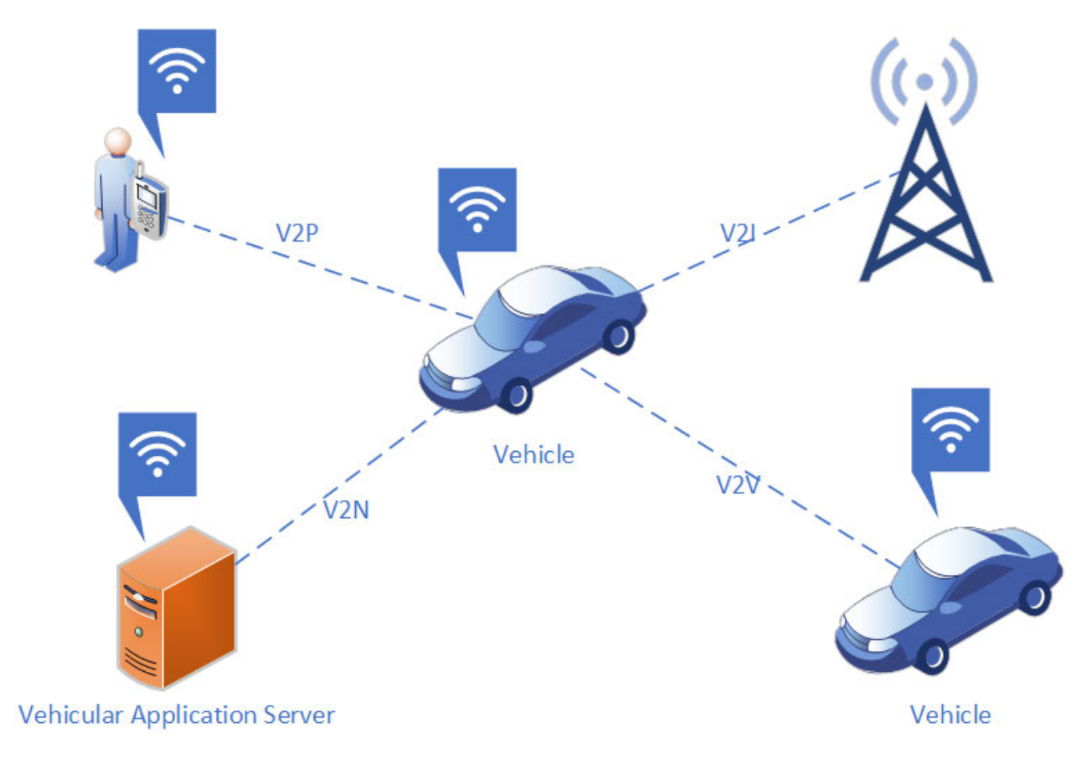
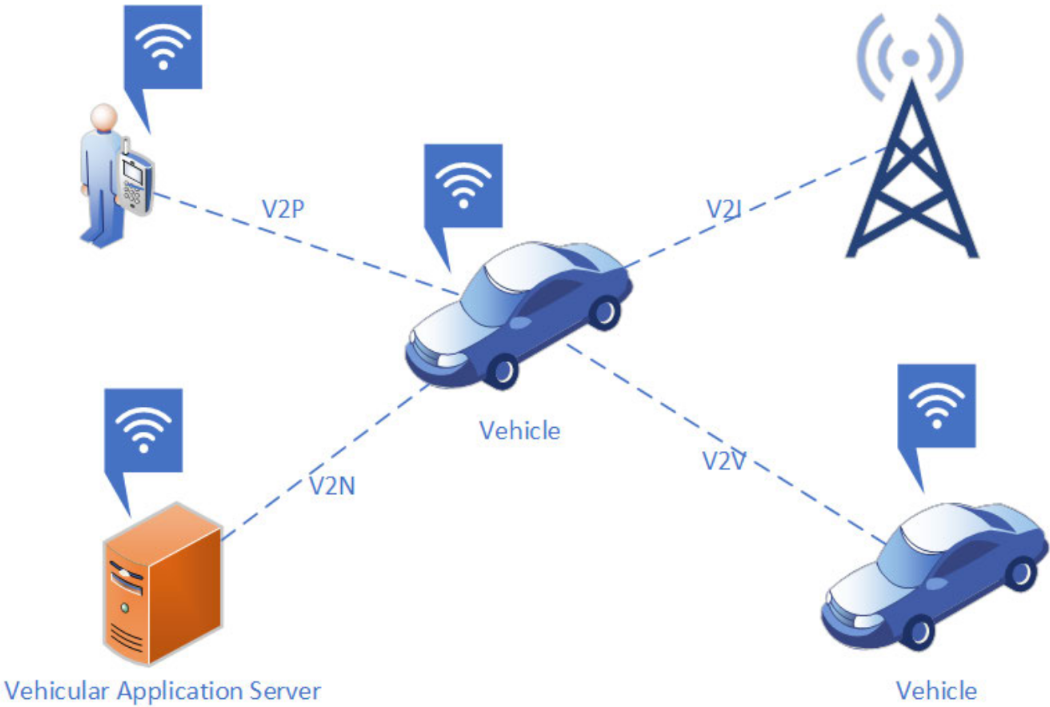
Add new figures and update text for consistency in terminology and clarity

diff --git a/sections/05_challenges_future.tex b/sections/05_challenges_future.tex
@@ -3,16 +3,16 @@
 \label{sec:challenges_future}
 
 The deployment of large-scale Internet of Vehicles (IoV) and cooperative automated driving faces several unresolved technical bottlenecks.
-This section details four core challenges: wireless channel congestion and spectrum coexistence under collective perception traffic, edge computing integration within Vehicle-Road-Cloud architectures, data trustworthiness through misbehavior detection, and the architectural roadmap toward 6G-V2X.
+This section details four core challenges: wireless channel congestion and spectrum coexistence under collective perception traffic, edge computing integration within Vehicle-Road-Cloud architectures, data trustworthiness through misbehaviour detection, and the architectural roadmap toward 6G-V2X.
 
 \subsection{Channel Congestion and Spectrum Coexistence}
 \label{subsec:congestion_coexistence}
 
 In dense traffic scenarios such as multi-lane urban intersections and highway traffic jams, hundreds of communicating nodes compete for the shared 5.9~GHz ITS spectrum~\cite{zhang2026cooperative}.
 In international intelligent transport roadmaps, vehicular communication deployment is structured into progressive phases, commonly classified as initial awareness services (often termed Day~1) and advanced cooperative sensing services (Day~2 and beyond).
-Initial Day~1 services rely on lightweight status beacons, such as Cooperative Awareness Messages (CAM) or Basic Safety Messages (BSM) of approximately 300~bytes.
+Initial Day~1 services rely on lightweight status beacons, such as CAM or BSM beacons of approximately 300~bytes.
 In these initial services, each vehicle only broadcasts its own dynamic state (its own GPS coordinates, velocity, and heading) or basic hazard notifications.
-In contrast, advanced Day~2 services introduce Collective Perception Messages (CPMs), where vehicles and roadside infrastructure share what their onboard sensors observe in the surrounding environment~\cite{etsi_cpm_2019}.
+In contrast, advanced Day~2 services introduce CPMs, where vehicles and roadside infrastructure share what their onboard sensors observe in the surrounding environment~\cite{etsi_cpm_2019}.
 Because a single CPM carries descriptions of multiple third-party obstacles, spatial coordinates, velocity vectors, and free-space polygons, message payloads expand from a few hundred bytes to several kilobytes.
 
 When hundreds of vehicles in a congested area broadcast these large perception messages at frequencies between 10~Hz and 20~Hz, the wireless channel experiences severe congestion.
@@ -20,7 +20,7 @@ In IEEE 802.11p/bd networks, CSMA/CA channel busy ratios quickly surpass saturat
 In C-V2X Mode~4, distributed semi-persistent scheduling suffers persistent subchannel selection collisions among uncoordinated vehicles~\cite{gyawali2020challenges}.
 These communication delays and packet losses directly cause perception errors, making automated vehicles miss real obstacles or localise them incorrectly.
 
-To prevent wireless channel collapse, standardisation bodies are developing Decentralised Congestion Control (DCC) mechanisms, such as ETSI TS 102 687, tailored specifically for collective perception.
+To prevent wireless channel collapse, standardisation bodies are developing Decentralised Congestion Control mechanisms, such as ETSI TS 102 687, tailored specifically for collective perception.
 Rather than merely reducing transmission frequencies, advanced CPM congestion control algorithms dynamically filter out redundant information.
 By assessing whether an obstacle has already been reported by neighbouring vehicles with high confidence, an agent suppresses repetitive transmissions, saving vital radio bandwidth while preserving full spatial awareness.
 Furthermore, multi-RAT spectrum coexistence remains an open regulatory and technical hurdle~\cite{szalay2023survey}.
@@ -31,35 +31,35 @@ Software-defined radio gateways and multi-channel roadside coordination mechanis
 \label{subsec:edge_computing}
 
 Autonomous vehicles require massive computational resources to process multi-modal neural network fusion in real time.
-While automotive on-board units (OBUs) operate under strict thermal and power limits, centralized cloud servers introduce wide-area round-trip latencies that exceed safety-critical operational deadlines ($>100$~ms)~\cite{storck2020survey}.
-Multi-access Edge Computing (MEC) resolves this bottleneck by co-locating high-performance edge servers with Roadside Units (RSUs)~\cite{huang2025v2x}.
-MEC nodes ingest sensor streams from surrounding vehicles and infrastructure cameras, execute intermediate feature fusion, generate an omniscient regional Bird's-Eye-View (BEV) dynamic map, and broadcast this fused context back to vehicles within single-digit milliseconds.
+While automotive OBUs operate under strict thermal and power limits, centralised cloud servers introduce wide-area round-trip latencies that exceed safety-critical operational deadlines ($>100$~ms)~\cite{storck2020survey}.
+Multi-access Edge Computing (MEC) resolves this bottleneck by co-locating high-performance edge servers with RSUs~\cite{huang2025v2x}.
+MEC nodes ingest sensor streams from surrounding vehicles and infrastructure cameras, execute intermediate feature fusion, generate an omniscient regional Bird's-Eye-View dynamic map, and broadcast this fused context back to vehicles within single-digit milliseconds.
 
 Despite its benefits, edge-assisted cooperative perception introduces three critical research challenges:
 \begin{itemize}
     \item \textbf{High-Speed Mobility and Context Handover:} As vehicles move at highway speeds, they traverse edge server coverage cells in a few seconds.
     Migrating active deep learning tracking contexts and spatial feature caches between adjacent edge nodes without interrupting safety-critical perception streams remains an open scheduling challenge~\cite{storck2020survey}.
     \item \textbf{Deadline-Constrained Workload Scheduling:} Real-time perception and trajectory prediction must conclude within strict 10--20~ms windows.
-    Edge schedulers must prioritise safety-critical vulnerable road user tracking over non-critical infotainment workloads during sudden traffic surges.
+    Edge schedulers must prioritise safety-critical VRU tracking over non-critical infotainment workloads during sudden traffic surges.
     \item \textbf{Asymmetric Uplink Bottlenecks:} Uplink channels from vehicles to RSUs frequently experience lower data throughput than broadcast downlinks, constraining the upload of rich point cloud data and necessitating adaptive feature compression.
 \end{itemize}
 
-\subsection{Data Trustworthiness and Misbehavior Detection}
-\label{subsec:misbehavior_detection}
+\subsection{Data Trustworthiness and Misbehaviour Detection}
+\label{subsec:misbehaviour_detection}
 
-Standard Vehicular Public Key Infrastructure (V-PKI) guarantees message authenticity, sender authorization, and packet integrity through digital signatures~\cite{brecht2018scms}.
+Standard V-PKI guarantees message authenticity, sender authorisation, and packet integrity through digital signatures~\cite{brecht2018scms}.
 However, cryptography only validates that a message originated from a certified device; it cannot guarantee that the sensor measurements inside the packet correspond to physical reality.
-An authorized vehicle with valid cryptographic credentials may transmit erroneous or deceptive data due to hardware failures (e.g., lens occlusion, dirty cameras, GNSS drift), software errors, or malicious compromise (e.g., an insider fabricating ghost obstacles to clear a highway lane)~\cite{heijden2017survey}.
+An authorised vehicle with valid cryptographic credentials may transmit erroneous or deceptive data due to hardware failures (e.g., lens occlusion, dirty cameras, GNSS drift), software errors, or malicious compromise (e.g., an insider fabricating ghost obstacles to clear a highway lane)~\cite{heijden2017survey}.
 Such falsifications inject artificial ghost objects or hide real obstacles, threatening automated driving safety.
 
-To bridge this trust gap, vehicular networks rely on Misbehavior Detection Systems (MDS)~\cite{heijden2017survey}:
+To bridge this trust gap, vehicular networks rely on MDS~\cite{heijden2017survey}:
 \begin{itemize}
     \item \textbf{Kinematic and Physical Plausibility Checks:} Receiving nodes verify incoming trajectories against physical motion laws, rejecting claims of impossible accelerations or overlapping vehicle volumes.
     \item \textbf{Multi-Sensor Cross-Validation:} Vehicles compare shared cooperative reports with their own onboard radar, LiDAR, and camera returns.
     If an authenticated CPM claims an obstacle exists in a clear area, the receiving vehicle flags the sender's observation as suspect.
-    \item \textbf{Global Misbehavior Reporting and Revocation:} When multiple independent nodes corroborate inconsistent reports regarding a specific pseudonym, misbehavior reports are relayed to backend pseudonym authorities (such as the SCMS Linkage Authorities or C-ITS Authorization Authority) to initiate certificate revocation~\cite{simplicio2018privacy}.
+    \item \textbf{Global Misbehaviour Reporting and Revocation:} When multiple independent nodes corroborate inconsistent reports regarding a specific pseudonym, misbehaviour reports are relayed to backend pseudonym authorities (such as the SCMS Linkage Authorities or C-ITS Authorisation Authority) to initiate certificate revocation~\cite{simplicio2018privacy}.
 \end{itemize}
-Achieving rapid misbehavior detection while preventing false positive revocations caused by temporary sensor noise or bad weather remains a crucial open problem.
+Achieving rapid misbehaviour detection while preventing false positive revocations caused by temporary sensor noise or bad weather remains a crucial open problem.
 
 \subsection{The Roadmap to 6G-V2X}
 \label{subsec:roadmap_6g}
@@ -76,15 +76,15 @@ By transmitting dual-functional waveforms that simultaneously convey cooperative
 \subsubsection{Semantic and Task-Oriented Communication}
 Conventional V2X protocols transmit raw data packets without considering their semantic value to the downstream driving task.
 In cooperative perception, streaming uncompressed LiDAR point clouds or video frames wastes scarce wireless bandwidth on irrelevant background scenes (such as road asphalt or buildings)~\cite{hu2022where2comm}.
-Semantic V2X uses deep learning to identify and transmit only task-relevant spatial confidence maps and critical attention areas (such as vulnerable road users and imminent collision trajectories).
+Semantic V2X uses deep learning to identify and transmit only task-relevant spatial confidence maps and critical attention areas (such as VRUs and imminent collision trajectories).
 This task-oriented compression slashes wireless overhead by orders of magnitude while preserving target detection accuracy.
 
 \subsubsection{Multimodal Foundation Models and Edge AI}
-The integration of Vision-Language Models (VLMs) and large multimodal foundation models into vehicular edge networks will allow vehicles to perform high-level causal reasoning~\cite{huang2025v2x}.
+The integration of Vision-Language Models and large multimodal foundation models into vehicular edge networks will allow vehicles to perform high-level causal reasoning~\cite{huang2025v2x}.
 Instead of simply classifying bounding boxes, cooperative vehicles will interpret complex traffic scenes holistically (such as inferring pedestrian crossing intention from subtle body gestures and gaze).
 Privacy-preserving federated learning will allow vehicles to collectively train these foundation models by sharing model weight updates rather than sensitive trajectory data.
 
-\subsubsection{Post-Quantum Cryptography (PQC)}
+\subsubsection{Post-Quantum Cryptography}
 Current V-PKI security depends on classical elliptic curve cryptography (ECDSA and ECIES)~\cite{brecht2018scms}.
 The eventual development of cryptanalytically relevant quantum computers will break these algorithms, compromising vehicular safety and driver privacy.
 Transitioning V2X networks to quantum-resistant lattice-based cryptography (such as ML-DSA and ML-KEM) is imperative.

diff --git a/sections/03_cooperative_perception.tex b/sections/03_cooperative_perception.tex
@@ -3,9 +3,9 @@
 \label{sec:cooperative_perception}
 
 Once a reliable wireless communication link is established, vehicles can deploy advanced safety and automation services.
-The primary application for high-level automated driving is Cooperative Perception (CP), also known as collective perception~\cite{etsi_cpm_2019}.
+The primary application for high-level automated driving is cooperative perception, also known as collective perception~\cite{etsi_cpm_2019}.
 In this paradigm, connected vehicles and intelligent roadside infrastructure share localised sensory data in real time, overcoming the physical limitations of individual onboard sensors~\cite{huang2025v2x}.
-This section analyses the motivation for cooperative sensing, examines standardised message frameworks, details the main sensor fusion strategies, evaluates strict quality-of-service (QoS) requirements, and reviews empirical error patterns observed in driving simulations.
+This section analyses the motivation for cooperative sensing, examines standardised message frameworks, details the main sensor fusion strategies, evaluates strict QoS requirements, and reviews empirical error patterns observed in driving simulations.
 
 \subsection{Motivation: Overcoming Physical Sensor Occlusions}
 Modern autonomous vehicles rely on three primary onboard perception sensors to perceive their surroundings:
@@ -15,12 +15,12 @@ Modern autonomous vehicles rely on three primary onboard perception sensors to p
     \item \textbf{Radar:} Accurately measures range and Doppler velocity under poor weather, but provides coarse angular resolution and sparse point returns.
 \end{itemize}
 
-Despite their complementary sensing modalities, all onboard sensors share an insurmountable physical limit: they depend strictly on direct Line-of-Sight (LOS) propagation~\cite{zhang2026cooperative}.
+Despite their complementary sensing modalities, all onboard sensors share an insurmountable physical limit: they depend strictly on direct line-of-sight propagation~\cite{zhang2026cooperative}.
 In dense urban traffic, large trucks, buses, roadside buildings, and sharp street corners constantly block this line-of-sight.
 Fig.~\ref{fig:urban_cp_scenario} illustrates this operational hazard at an urban crosswalk.
 Without V2X cooperation, an automated vehicle following a large delivery truck has its frontal field-of-view completely obstructed.
 A pedestrian crossing ahead remains invisible until stepping into the driving lane, leaving insufficient braking distance and creating a fatal collision risk.
-With cooperative perception, a vehicle travelling in the opposite direction or an elevated Roadside Unit (RSU) observes the pedestrian with an unobstructed line-of-sight.
+With cooperative perception, a vehicle travelling in the opposite direction or an elevated RSU observes the pedestrian with an unobstructed line-of-sight.
 The discovering node immediately broadcasts the pedestrian's coordinates over the V2X network.
 The receiving vehicle fuses this shared knowledge into its world model, anticipates the hazard ahead, and decelerates smoothly before the hazard emerges into physical view~\cite{antonopoulos2026beyond}.
 
@@ -34,9 +34,9 @@ The receiving vehicle fuses this shared knowledge into its world model, anticipa
 \subsection{Standardised Message Frameworks: CAM, DENM, and CPM}
 Standardisation organisations have defined structured message formats to support vehicular awareness across heterogeneous platforms:
 \begin{itemize}
-    \item \textbf{Cooperative Awareness Messages (CAM) / Basic Safety Messages (BSM):} Periodic single-hop status broadcasts transmitted at 1 to 10~Hz.
+    \item \textbf{CAM and Basic Safety Messages (BSM):} Periodic single-hop status broadcasts transmitted at 1 to 10~Hz.
     They convey only the sender's own dynamic state (GPS coordinates, speed, acceleration, and yaw rate) without describing neighbouring objects.
-    \item \textbf{Decentralised Environmental Notification Messages (DENM):} Event-triggered safety alerts sent when an unexpected hazard arises, such as roadworks, emergency electronic brake lights, or black ice.
+    \item \textbf{DENM:} Event-triggered safety alerts sent when an unexpected hazard arises, such as roadworks, emergency electronic brake lights, or black ice.
     \item \textbf{Collective Perception Messages (CPM):} Standardised by ETSI in TR~103~562~\cite{etsi_cpm_2019} and TS~103~324.
     Unlike ego-only CAMs, a CPM enables an agent to describe third-party objects detected by its local perception sensors.
     A CPM contains the sender's sensor capabilities, free-space perception zones, and a list of detected objects detailing their 3D positions, bounding box dimensions, velocity vectors, and classification confidence scores.
@@ -78,11 +78,11 @@ However, if an occluded obstacle is partially hidden and missed by a vehicle's o
 Before two vehicles can combine spatial observations, their geometric reference frames must be unified.
 Each vehicle measures the environment from its own perspective, using a local coordinate system centred on its own chassis.
 To map a detected point from a sending vehicle into the ego vehicle's frame of reference, the system mathematically translates and rotates the coordinates using the sender's spatial position and orientation angles, specifically yaw, pitch, and roll.
-This spatial alignment relies heavily on accurate onboard positioning systems, such as GPS and inertial measurement units (IMUs).
+This spatial alignment relies heavily on accurate onboard positioning systems, such as GPS and inertial measurement units.
 If the sending vehicle suffers from sensor noise or calibration drift, even a minor orientation error of one degree can displace a detected obstacle by more than a metre at a distance of 50~metres.
 Such spatial offsets can cause the receiving vehicle to see duplicated obstacles or place pedestrians into the wrong road lane.
 
-\subsection{Strict Quality-of-Service (QoS) Requirements}
+\subsection{Strict QoS Requirements}
 Cooperative perception imposes rigorous QoS constraints on the wireless network:
 \begin{itemize}
     \item \textbf{Ultra-Low Latency ($<10$--$20$~ms):} When an autonomous vehicle travels at 120~km/h (33.3~m/s), a transmission delay of 100~ms causes a displacement of 3.33~metres before the alert is processed.
@@ -108,13 +108,13 @@ As classified in Fig.~\ref{fig:error_taxonomy}, cooperative perception errors fa
     \item \textbf{Misleading Errors (LE):} Occur when the ego vehicle's individual perception was correct, but cooperative data corrupts the final fused result:
     \begin{itemize}
         \item \textit{LCME (Misleading Missing Error):} The ego vehicle detected an object, but cooperative fusion causes it to be discarded.
-        \item \textit{LCLE (Misleading Localization Error):} The ego vehicle localised an object accurately, but shared data shifts its bounding box into an incorrect position.
+        \item \textit{LCLE (Misleading Localisation Error):} The ego vehicle localised an object accurately, but shared data shifts its bounding box into an incorrect position.
         \item \textit{LADE (Misleading Additional Detection Error):} The cooperative network injects a non-existent phantom object, triggering dangerous phantom braking.
     \end{itemize}
     \item \textbf{Miscorrecting Errors (CE):} Occur when individual perception failed, and the cooperative network fails to resolve or worsens the mistake:
     \begin{itemize}
         \item \textit{CCME (Miscorrected Missing Error):} Both the ego vehicle and cooperative partners fail to detect an obstacle.
-        \item \textit{CCLE (Miscorrected Localization Error):} Both nodes detect an obstacle with large spatial errors that cooperation fails to correct.
+        \item \textit{CCLE (Miscorrected Localisation Error):} Both nodes detect an obstacle with large spatial errors that cooperation fails to correct.
         \item \textit{CADE (Miscorrected Additional Detection Error):} The cooperative network validates an onboard phantom detection as real.
     \end{itemize}
 \end{enumerate}

diff --git a/sections/02_v2x_technologies_and_deployment.tex b/sections/02_v2x_technologies_and_deployment.tex
@@ -33,8 +33,8 @@ The IEEE standards are based on adapted versions of Wi-Fi technology for direct,
 
 \subsubsection{IEEE 802.11p (DSRC / ITS-G5)}
 Published in 2010, IEEE 802.11p serves as the access layer for Dedicated Short-Range Communications (DSRC) in North America (supported by the IEEE 1609 Wireless Access in Vehicular Environments (WAVE) protocol stack) and for ITS-G5 in Europe (standardised by the European Telecommunications Standards Institute (ETSI) in EN 302 663).
-It operates in the dedicated 5.9~GHz Intelligent Transportation Systems (ITS) frequency band.
-At the medium access control layer, IEEE 802.11p provides decentralised, ad-hoc communication without requiring a centralised control system or cellular infrastructure.
+It operates in the dedicated 5.9~GHz Intelligent Transport Systems (ITS) frequency band.
+At the MAC layer, IEEE 802.11p provides decentralised, ad-hoc communication without requiring a centralised control system or cellular infrastructure.
 This decentralised architecture offers low implementation costs and low end-to-end latency under light channel loads, but lacks coordination across transmitting nodes.
 
 While effective in sparse environments, 802.11p exhibits two major technical drawbacks:
@@ -57,7 +57,7 @@ Empirical evaluations show that 802.11bd increases the packet reception ratio fr
 \subsection{3GPP Cellular V2X: LTE-V2X and 5G NR-V2X}
 \label{subsec:cv2x_standards}
 
-Cellular V2X (C-V2X) was standardised by 3GPP to support vehicular communications using two primary interfaces:
+C-V2X was standardised by 3GPP to support vehicular communications using two primary interfaces:
 \begin{itemize}
     \item \textbf{PC5 Interface (Sidelink):} Enables direct communication between nearby vehicles without relying on cellular base stations.
     \item \textbf{Uu Interface (Network):} Connects vehicles to cellular base stations for long-range network services and traffic management.
@@ -99,18 +99,18 @@ To resolve this coexistence challenge, research literature identifies three main
 \begin{itemize}
     \item \textbf{Fixed Preamble Insertion:} Inserting an IEEE 802.11p preamble into LTE-V2X transmissions allows 802.11p devices to detect channel occupancy, successfully reducing cross-technology packet collisions in dense traffic~\cite{bazzi2022performance}.
     \item \textbf{Dynamic RAT Selection and Clustering:} Grouping vehicles into dynamic clusters to select between cellular and DSRC links based on network conditions improves Quality of Service (QoS), lowers overall network load, and minimises unnecessary handovers~\cite{qi2020traffic}.
-    \item \textbf{Software-Defined Networking (SDN):} An SDN-based control plane coordinates hybrid protocol stacks across vehicles, resulting in fewer network handovers, higher link reliability, and lower transmission delays~\cite{mir2020enabling}.
+    \item \textbf{Software-Defined Networking (SDN):} A software-defined control plane coordinates hybrid protocol stacks across vehicles, resulting in fewer network handovers, higher link reliability, and lower transmission delays~\cite{mir2020enabling}.
 \end{itemize}
 
 \subsection{Worldwide Commercial Deployment Status}
 \label{subsec:deployments}
 
-\begin{figure*}[!t]
+\begin{figure}[!t]
 \centering
-\includegraphics[width=0.88\textwidth]{figures/rq1/rq1_global_v2x_cits_deployments.png}
-\caption{Global V2X and C-ITS deployments and pilot projects across North America, Europe, Asia, and Oceania~\cite{szalay2023survey}.}
+\includegraphics[width=\columnwidth]{figures/rq1/rq1_protocols_world_map.jpg}
+\caption{Global landscape of V2X communication standards and pilot deployments across North America, Europe, China, South Korea, Japan, and Australasia~\cite{szalay2023survey}.}
 \label{fig:global_deployments}
-\end{figure*}
+\end{figure}
 
 The commercial deployment of V2X communication technologies varies across different regions due to differing regulatory policies and industry backing, as surveyed by Hejazi and Bokor~\cite{szalay2023survey} and illustrated in Fig.~\ref{fig:global_deployments}.
 
@@ -128,7 +128,7 @@ Following the 2017 San Diego connected car trials conducted by Qualcomm, Ford, a
 Europe has adopted a technology-neutral, hybrid approach under the Cooperative Intelligent Transport Systems (C-ITS) framework, combining ITS-G5 for direct safety-critical messages at intersections with cellular networks for wide-area alerts using standardised ETSI Cooperative Awareness Messages (CAM) and Decentralised Environmental Notification Messages (DENM).
 This framework has been validated through major multinational pilots:
 \begin{itemize}
-    \item \textbf{C-Roads Platform:} Deployed cross-border interoperable Day-1 services (such as hazardous location and slow vehicle alerts) across 16 countries and 43 cities via RSUs and on-board units using the Advanced Message Queuing Protocol.
+    \item \textbf{C-Roads Platform:} Deployed cross-border interoperable Day-1 services (such as hazardous location and slow vehicle alerts) across 16 countries and 43 cities via RSUs and On-Board Units (OBUs) using the Advanced Message Queuing Protocol.
     \item \textbf{Cross-Border and National Pilots:} The CROCODILE project linked road networks across 13 Central and Eastern European countries for data collection, while France deployed the SCOOP@F pilot connecting 3,000 vehicles over 2,000~km of road.
     The DRIVE C2X project established seven national test sites proving that cooperative speed limit signage reduces road casualties~\cite{szalay2023survey}, while NordicWay tested cellular hazard warning services across Scandinavia.
     \item \textbf{5G Testbeds:} The European 5GCAR project demonstrated 5G testbeds in France for lane-merge coordination and pedestrian protection.
@@ -143,4 +143,4 @@ Major Chinese automobile manufacturers are actively releasing production vehicle
 \subsubsection{Asia-Pacific and Oceania}
 Japan deployed early cooperative systems across its national highway system, and is currently testing C-V2X alongside 5G deployments.
 South Korea conducted nationwide highway C-ITS pilots led by the Ministry of Land, Infrastructure, and Transport, testing both LTE-V2X and 802.11p.
-Australia and New Zealand developed the Austroads connected vehicle program, evaluating both technologies across major freight routes.
+Australia and New Zealand developed the Austroads connected vehicle programme, evaluating both technologies across major freight routes.

diff --git a/sections/04_security_privacy.tex b/sections/04_security_privacy.tex
@@ -23,15 +23,15 @@ OAuth V-PKI (Yoshizawa \& Preneel~\cite{yoshizawa2023new}) & Daily OAuth 2.0 tok
 \end{tabular}
 \end{table*}
 
-Securing Vehicle-to-Everything (V2X) communications is essential to prevent malicious actors from injecting falsified hazard alerts, altering trajectory coordinates, or triggering emergency braking.
+Securing V2X communications is essential to prevent malicious actors from injecting falsified hazard alerts, altering trajectory coordinates, or triggering emergency braking.
 However, authenticating vehicular transmissions introduces an acute conflict with driver privacy~\cite{brecht2018scms}.
 This section evaluates Vehicular Public Key Infrastructure (V-PKI), pseudonym certificate lifecycles, scalable batch issuance, revocation architectures, and practical attack surfaces in high-density vehicular networks.
 
 \subsection{Vehicular Security versus Privacy}
 \label{subsec:security_privacy_dilemma}
 
-Connected vehicle networks broadcast periodic status beacons at 10~Hz over the dedicated 5.9~GHz Intelligent Transport Systems (ITS) band.
-These beacons comprise Basic Safety Messages (BSMs) in North America and Cooperative Awareness Messages (CAMs) in Europe.
+Connected vehicle networks broadcast periodic status beacons at 10~Hz over the dedicated 5.9~GHz ITS band.
+These beacons comprise BSMs in North America and CAMs in Europe.
 Each packet conveys dynamic telemetry, including high-precision Global Navigation Satellite System (GNSS) coordinates, speed, heading, acceleration, and vehicle dimensions.
 This operational environment creates a fundamental engineering conflict:
 \begin{itemize}
@@ -41,7 +41,7 @@ This operational environment creates a fundamental engineering conflict:
     \item \textbf{Privacy and Location Unlinkability:} Signing beacons with static hardware credentials creates a wireless licence plate.
     Eavesdroppers recording 10~Hz location broadcasts can reconstruct historical journeys, infer residential and employment locations, and track motorists continuously.
 \end{itemize}
-Modern V-PKIs resolve this conflict by provisioning On-Board Units (OBUs) with \textbf{pseudonym certificates} devoid of personally identifiable information.
+Modern V-PKIs resolve this conflict by provisioning OBUs with \textbf{pseudonym certificates} devoid of personally identifiable information.
 Rotating pseudonyms provides \textit{conditional anonymity}: ordinary observers cannot link consecutive messages across pseudonym switches, while authorised traffic authorities retain cryptographic capabilities to trace and revoke misbehaving nodes.
 
 \begin{figure*}[!t]
@@ -61,7 +61,7 @@ Rotating pseudonyms provides \textit{conditional anonymity}: ordinary observers 
 \label{fig:scms_and_butterfly}
 \end{figure*}
 
-\newpage
+% \newpage      % tigago - comentei pq tava a fzr blocos vazios gigantes no pdf
 
 \subsection{Trust Architectures and Multi-Authority Separation of Duties}
 \label{subsec:trust_architectures}
@@ -88,7 +88,7 @@ Driver privacy is mathematically guaranteed unless at least two structurally ind
 The European C-ITS architecture (ETSI TS~102~940 and TS~102~941) implements a similar functional separation~\cite{haidar2019risk, yoshizawa2023new}.
 An Enrolment Authority (EA) manages long-term identities, while an Authorisation Authority (AA) issues short-term Authorisation Tickets (ATs) acting as pseudonym certificates.
 A central Distribution Centre (DC) publishes European Certificate Trust Lists (CTLs).
-ATs sign CAMs and Decentralised Environmental Notification Messages (DENMs), keeping long-term credentials off the air.
+ATs sign CAMs and DENMs, keeping long-term credentials off the air.
 
 \subsection{Scalable Batch Issuance: Butterfly Keys vs. Proxy Re-Signatures}
 \label{subsec:issuance_and_rollover}
@@ -103,7 +103,7 @@ The \textbf{Butterfly Key Expansion} mechanism resolves this dilemma~\cite{brech
     \item The PCA encrypts certificates and offsets for the vehicle and returns them through the RA.
     \item The vehicle decrypts the package, applies the PCA offsets and expansion steps to its private seed, and derives matching private signing keys locally.
 \end{enumerate}
-Earlier schemes such as PASS~\cite{sun2010efficient} offloaded certificate generation to Roadside Units (RSUs) using bilinear pairing proxy re-signatures with 175-byte re-signature keys.
+Earlier schemes such as PASS~\cite{sun2010efficient} offloaded certificate generation to RSUs using bilinear pairing proxy re-signatures with 175-byte re-signature keys.
 However, bilinear pairing verification consumes substantial processing time ($\approx 14.7$~ms), hindering wide adoption.
 
 \subsection{Revocation Paradigms and Credential Management}
@@ -129,7 +129,7 @@ Starting the vehicle ignition acts as driver consent (Resource Owner), triggerin
 The onboard Hardware Security Module (HSM, Resource Server) verifies the token before enabling message signing.
 Deriving temporary session keys via a one-way hash ratchet ensures forward and backward secrecy while shrinking the revocation window from 90 days to 24 hours.
 
-\newpage
+% \newpage      % tigago - comentei pq tava a fzr blocos vazios gigantes no pdf
 
 \subsection{Technical Limitations and Practical Vulnerabilities}
 \label{subsec:limitations_and_vulnerabilities}

diff --git a/sections/06_conclusion.tex b/sections/06_conclusion.tex
@@ -2,23 +2,23 @@
 \section{Conclusion}
 \label{sec:conclusion}
 
-The Internet of Vehicles (IoV) represents a major paradigm shift in intelligent transportation systems, transforming isolated connected cars into cooperative IoT nodes.
+The Internet of Vehicles (IoV) represents a major paradigm shift in intelligent transport systems, transforming isolated connected cars into cooperative IoT nodes.
 This survey presented an in-depth, systematic analysis of V2X communications across three foundational pillars: radio access technologies, cooperative perception systems, and cryptographic security architectures.
 
 First, we compared dedicated short-range standards (IEEE 802.11p and 802.11bd) with cellular alternatives (LTE-V2X and 5G NR-V2X).
 While IEEE 802.11p offers mature, low-complexity ad-hoc communication, its CSMA/CA mechanism suffers from severe packet collisions under high vehicle density.
-In contrast, 5G NR-V2X introduces flexible OFDM numerologies, advanced sidelink feedback, and autonomous distributed scheduling (Mode~2), delivering the sub-10~ms latencies and multi-gigabit throughput needed for advanced automated maneuvers.
+In contrast, 5G NR-V2X introduces flexible OFDM numerologies, advanced sidelink feedback, and autonomous distributed scheduling (Mode~2), delivering the sub-10~ms latencies and multi-gigabit throughput needed for advanced automated manoeuvres.
 Global deployments remain regionally fragmented: China has mandated nationwide C-V2X infrastructure, the European Union maintains a hybrid dual-stack approach, and the United States has reallocated spectrum toward C-V2X after decades of DSRC testing.
 
 Second, we evaluated cooperative perception frameworks designed to eliminate blind spots caused by line-of-sight occlusions and adverse weather.
 Intermediate feature-level fusion, enabled by Vision Transformers and spatial confidence maps, strikes the optimal balance between detection accuracy and communication bandwidth.
 However, simulation benchmarks using CARLA and dynamic map toolchains prove that cooperative perception is highly fragile.
-Network latencies exceeding 500~ms or spatial coordinate alignment errors larger than 0.2~meters double the collision rate of autonomous vehicles, highlighting the vital need for ultra-reliable communication links ($>99.999\%$) and real-time pose correction.
+Network latencies exceeding 500~ms or spatial coordinate alignment errors larger than 0.2~metres double the collision rate of autonomous vehicles, highlighting the vital need for ultra-reliable communication links ($>99.999\%$) and real-time pose correction.
 
-Third, we investigated Vehicle Public Key Infrastructure (V-PKI) and pseudonym certificate lifecycles.
+Third, we investigated V-PKI and pseudonym certificate lifecycles.
 Architectures like the North American SCMS and ETSI C-ITS enforce institutional separation of duties and leverage Butterfly Key expansion to issue thousands of pseudonyms efficiently.
 Nevertheless, managing certificate revocation remains a complex trade-off between wireless CRL broadcast overhead and passive epoch-based vulnerability windows.
-Furthermore, pseudonym randomization cannot fully eliminate tracking risks, as kinematic side channels and trajectory reconstruction techniques can re-identify vehicles.
+Furthermore, pseudonym randomisation cannot fully eliminate tracking risks, as kinematic side channels and trajectory reconstruction techniques can re-identify vehicles.
 
-Finally, we outlined open challenges and research directions, focusing on channel congestion control, roadside edge computing offloading, misbehavior detection for sensor data validation, and the transition toward 6G-V2X.
-Technologies such as Integrated Sensing and Communication (ISAC), semantic task-oriented messaging, and post-quantum cryptographic standards will play a vital role in building safe, scalable, and privacy-preserving connected vehicular ecosystems.
+Finally, we outlined open challenges and research directions, focusing on channel congestion control, roadside edge computing offloading, misbehaviour detection for sensor data validation, and the transition toward 6G-V2X.
+Technologies such as ISAC, semantic task-oriented messaging, and post-quantum cryptographic standards will play a vital role in building safe, scalable, and privacy-preserving connected vehicular ecosystems.

diff --git a/sections/00_abstract.tex b/sections/00_abstract.tex
@@ -1,15 +1,15 @@
 %!TEX root = ../main.tex
 \begin{abstract}
-The Internet of Vehicles (IoV) is a core component of the Internet of Things (IoT) that connects modern vehicles, roadside units, and traffic management centers.
+The Internet of Vehicles (IoV) is a core component of the Internet of Things (IoT) that connects modern vehicles, roadside units, and traffic management centres.
 Vehicles require wireless communication to exchange safety alerts and road conditions in real time.
 However, connected vehicles face three major practical challenges: selecting the right radio access technology, sharing sensor data for cooperative perception, and protecting driver privacy while maintaining system security.
 This survey provides a sequential, systematic analysis of these three challenges.
 First, we compare Cellular V2X (C-V2X: LTE-V2X, 5G NR-V2X) and IEEE 802.11 standards (802.11p, 802.11bd) in medium access, latency, throughput, spectrum allocation, and global commercial deployments.
 Second, we examine cooperative perception architectures where vehicles share camera, LiDAR, and radar features to overcome line-of-sight occlusions, specifying exact requirements for low latency and high reliability.
-Third, we evaluate Vehicular Public Key Infrastructure (V-PKI) and pseudonym certificate lifecycles, analyzing how multi-authority separation, butterfly key expansion, and revocation schemes balance user privacy against Sybil and tracking attacks.
-Finally, we discuss open challenges in wireless congestion, edge computing offloading, and misbehavior detection, outlining the roadmap toward 6G-enabled vehicular networks.
+Third, we evaluate Vehicular Public Key Infrastructure (V-PKI) and pseudonym certificate lifecycles, analysing how multi-authority separation, butterfly key expansion, and revocation schemes balance user privacy against Sybil and tracking attacks.
+Finally, we discuss open challenges in wireless congestion, edge computing offloading, and misbehaviour detection, outlining the roadmap toward 6G-enabled vehicular networks.
 \end{abstract}
 
 \begin{IEEEkeywords}
-Internet of Vehicles, V2X, C-V2X, IEEE 802.11bd, cooperative perception, pseudonym certificates, V-PKI, intelligent transportation.
+Internet of Vehicles, V2X, C-V2X, IEEE 802.11bd, cooperative perception, pseudonym certificates, V-PKI, intelligent transport.
 \end{IEEEkeywords}

diff --git a/sections/01_introduction.tex b/sections/01_introduction.tex
@@ -2,7 +2,7 @@
 \section{Introduction and IoT Foundations for Connected Vehicles}
 \label{sec:introduction}
 
-Modern transportation systems are undergoing a major digital transformation.
+Modern transport systems are undergoing a major digital transformation.
 As cities grow and vehicle traffic increases, traditional traffic management methods struggle to prevent collisions and reduce road congestion.
 To solve these problems, the Internet of Things (IoT) has expanded into the automotive sector, creating the Internet of Vehicles (IoV)~\cite{szalay2023survey}.
 In this paradigm, vehicles are no longer isolated mechanical machines.
@@ -14,8 +14,8 @@ V2X enables cars to exchange dynamic information with nearby nodes in real time.
 
 \begin{figure}[!t]
 \centering
-\includegraphics[width=0.88\columnwidth]{figures/rq1/rq1_v2x_communication_modes.png}
-\caption{The main communication modes of Vehicle-to-Everything (V2X): V2I, V2V, V2N, and V2P.}
+\includegraphics[width=0.72\columnwidth]{figures/rq1/rq1_v2x_communication_modes.png}
+\caption{The main communication modes of V2X: V2I, V2V, V2N, and V2P.}
 \label{fig:v2x_modes}
 \end{figure}
 
